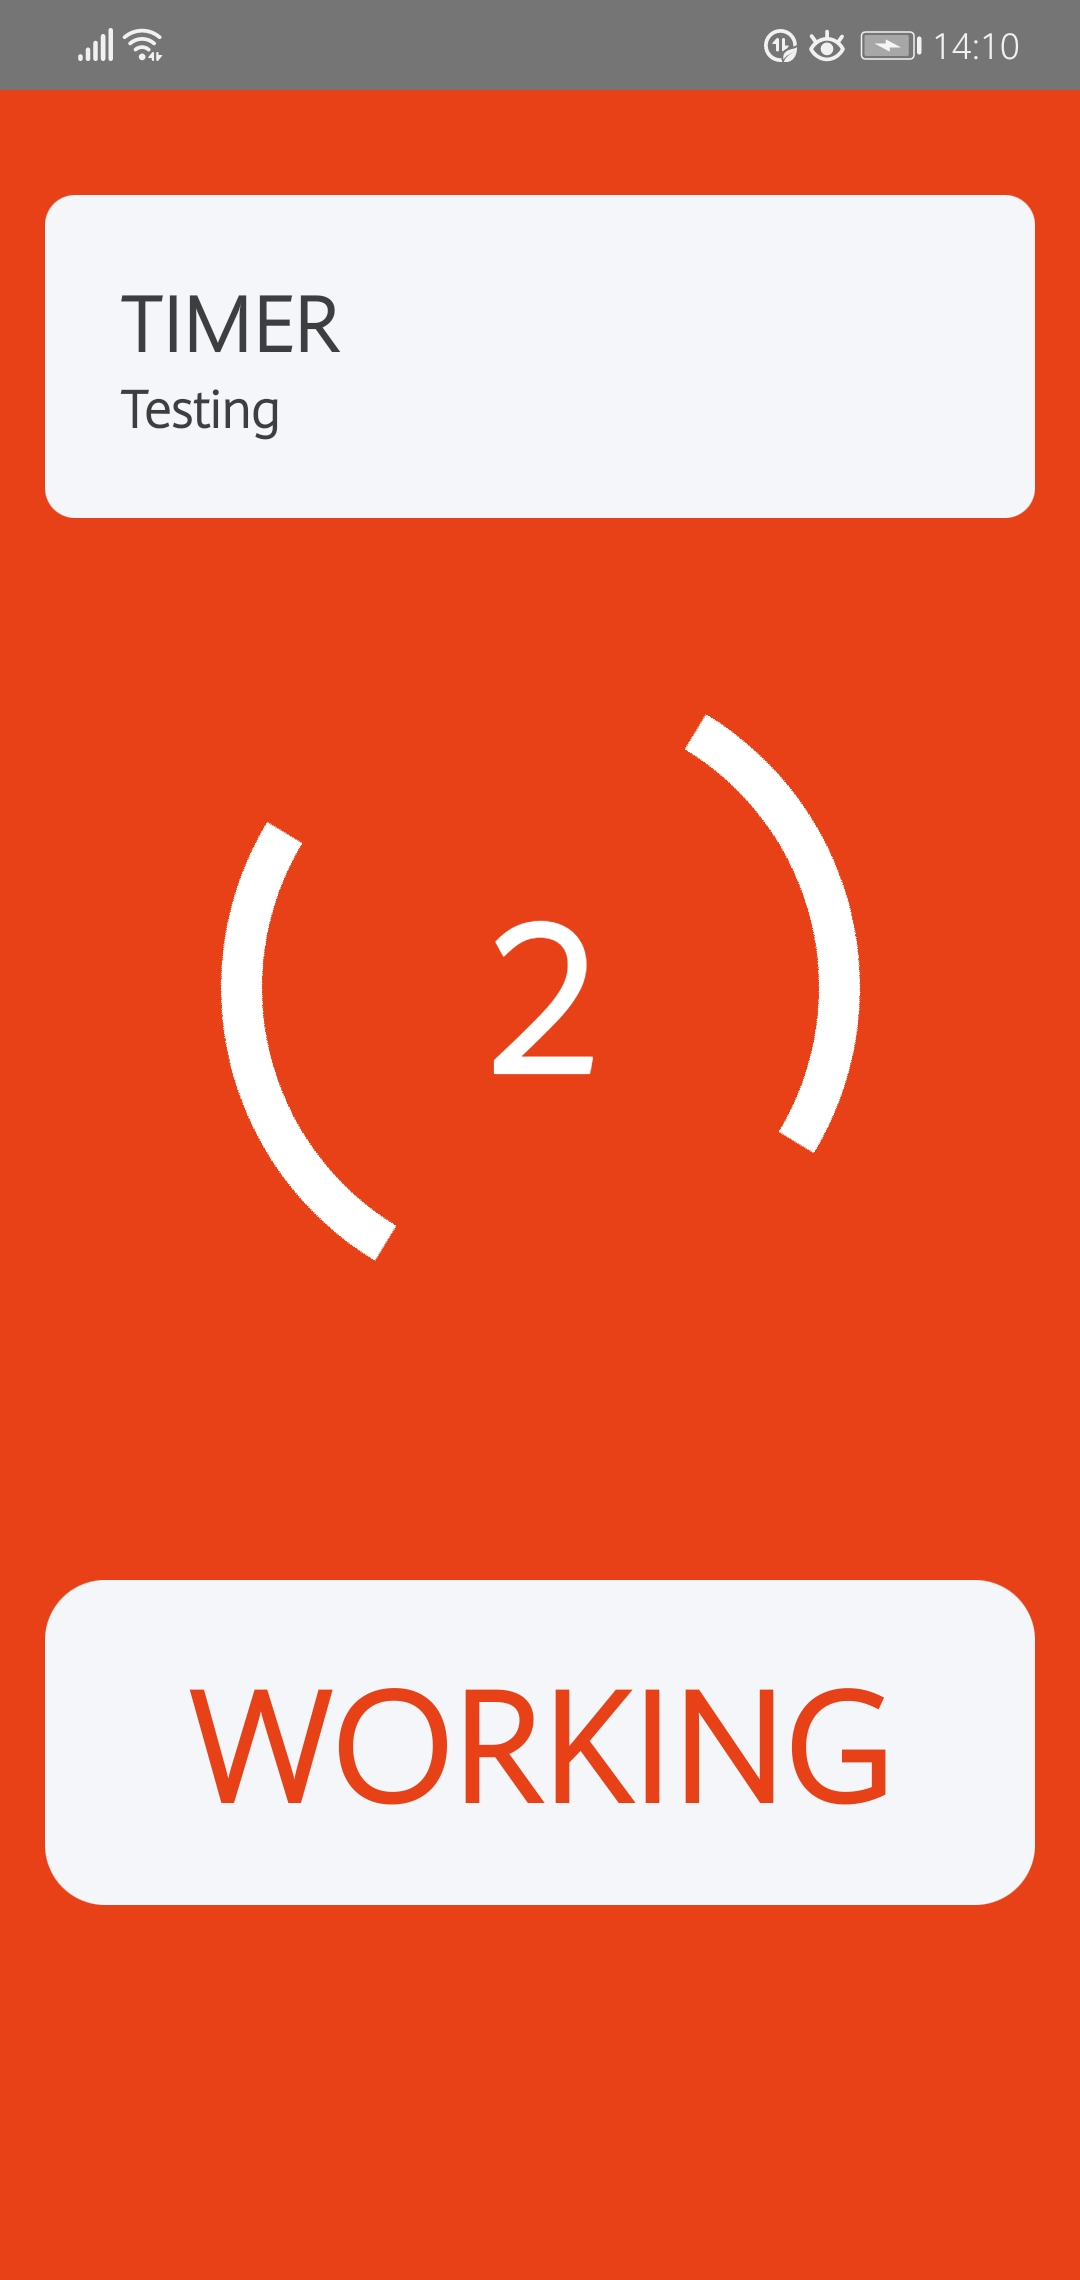
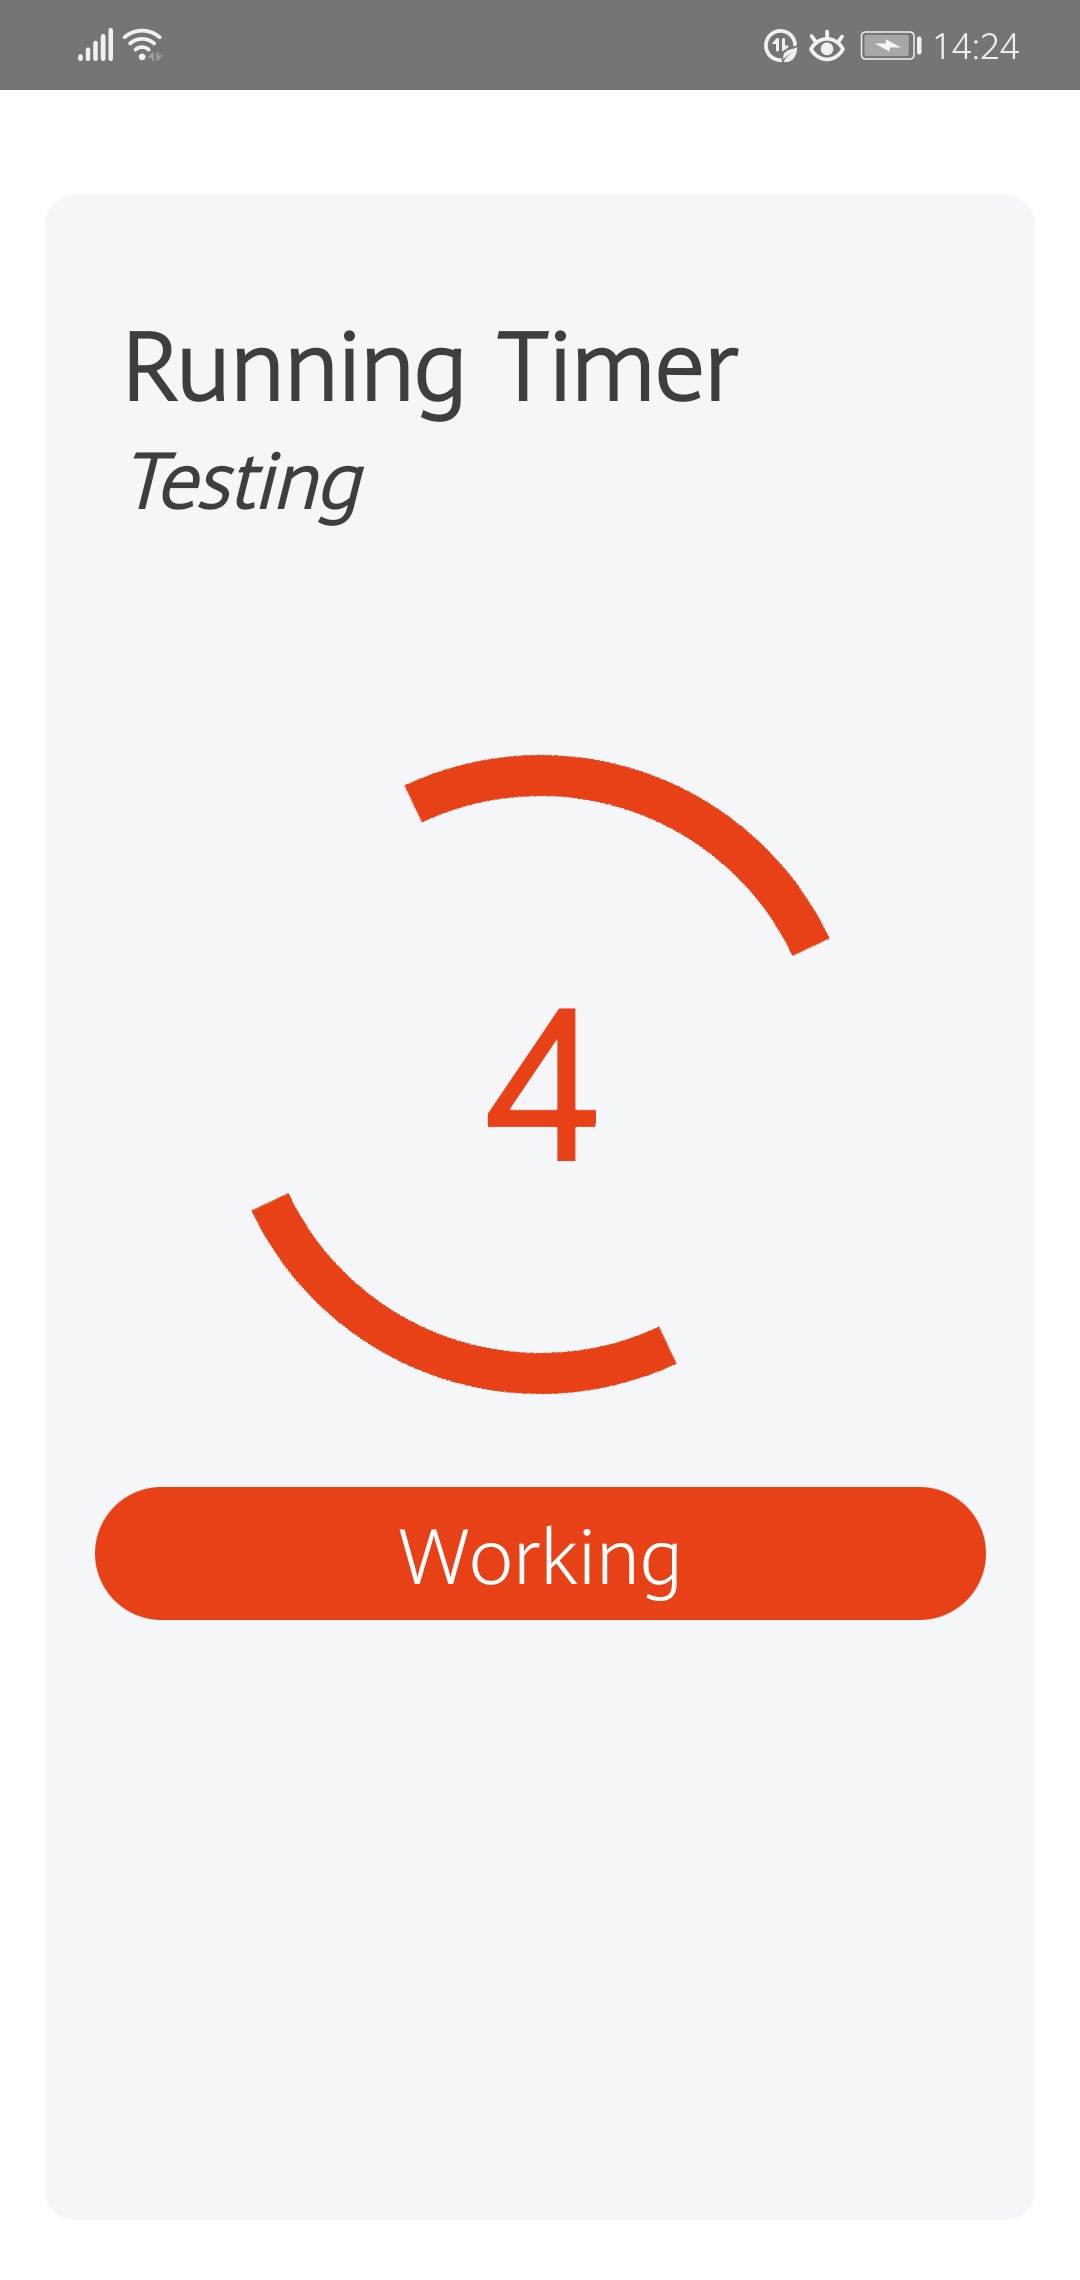
fix: colors on timer screen

diff --git a/LR2/PomodoroTimer/screens/RunTimerScreen.tsx b/LR2/PomodoroTimer/screens/RunTimerScreen.tsx
@@ -63,19 +63,21 @@ export const RunTimerScreen = React.memo((): JSX.Element => {
 
 
   React.useEffect((): void => {
-    setStageName(stage => array.current[seconds])
+    setStageName(stage => seconds < array.current.length ? array.current[seconds] : StageName.FINISHED)
   }, [seconds])
 
 
   return (
     <View style={wrapperStyles}>
-      <View style={headStyles}>
-        <Text style={titleStyles}>TIMER</Text>
-        <Text style={subtitleStyles}>{timer.title}</Text>
+      <View style={styles.container}>
+        <View style={headStyles}>
+          <Text style={titleStyles}>Running Timer</Text>
+          <Text style={subtitleStyles}>{timer.title}</Text>
+        </View>
+        <TimerAnimation color={ACCENT_RED_COLOR} />
+        <Text style={styles.timePassed}>{seconds}</Text>
+        <Text style={styles.stageName}>{stageName}</Text>
       </View>
-      <TimerAnimation color={circleColor} />
-      <Text style={styles.timePassed}>{seconds}</Text>
-      <Text style={styles.stageName}>{stageName}</Text>
     </View>
   )
 }, (): boolean => true)
@@ -90,11 +92,22 @@ const styles = StyleSheet.create({
     paddingHorizontal: 15,
     paddingVertical: 20,
     paddingTop: 35,
-    alignItems: 'center'
+    alignItems: 'center',
+    backgroundColor: 'white'
+  },
+
+  container: {
+    width: '100%',
+    height: '100%',
+    display: 'flex',
+    flexDirection: 'column',
+    backgroundColor: ITEMS_BG_COLOR,
+    alignItems: 'center',
+    borderRadius: 10
   },
 
   wrapperLight: {
-    backgroundColor: ACCENT_RED_COLOR
+    backgroundColor: 'white'
   },
 
   wrapperDark: {
@@ -103,18 +116,19 @@ const styles = StyleSheet.create({
   head: {
     width: '100%',
     padding: 25,
+    paddingTop: 35,
     borderRadius: 10,
     marginBottom: 50
   },
   headLight: {
-    backgroundColor: ITEMS_BG_COLOR
+    backgroundColor: 'transparent'
   },
   headDark: {
     backgroundColor: 'rgba(0,0,0,.8)'
   },
 
   title: {
-    fontSize: 30,
+    fontSize: 37,
     width: '100%',
     fontWeight: '900',
     marginRight: 'auto',
@@ -130,7 +144,8 @@ const styles = StyleSheet.create({
   },
 
   subtitle: {
-    fontSize: 20,
+    fontSize: 30,
+    fontStyle: 'italic',
     width: '100%',
     fontWeight: '900',
     marginRight: 'auto',
@@ -148,21 +163,21 @@ const styles = StyleSheet.create({
   timePassed: {
     fontSize: 80,
     fontWeight: '900',
-    color: 'white',
+    color: ACCENT_RED_COLOR,
     marginTop: -150
   },
 
   stageName: {
-    fontSize: 60,
-    fontWeight: '900',
+    fontSize: 30,
+    fontWeight: '100',
     //color: 'white',
-    marginTop: 150,
-    padding: 20,
-    backgroundColor: ITEMS_BG_COLOR,
-    color: ACCENT_RED_COLOR,
-    width: '100%',
-    borderRadius: 20,
+    marginTop: 90,
+    padding: 5,
+    backgroundColor: ACCENT_RED_COLOR,
+    color: 'white',
+    width: '90%',
+    borderRadius: 100,
     textAlign: 'center',
-    textTransform: 'uppercase'
+    textTransform: 'capitalize'
   }
 })
